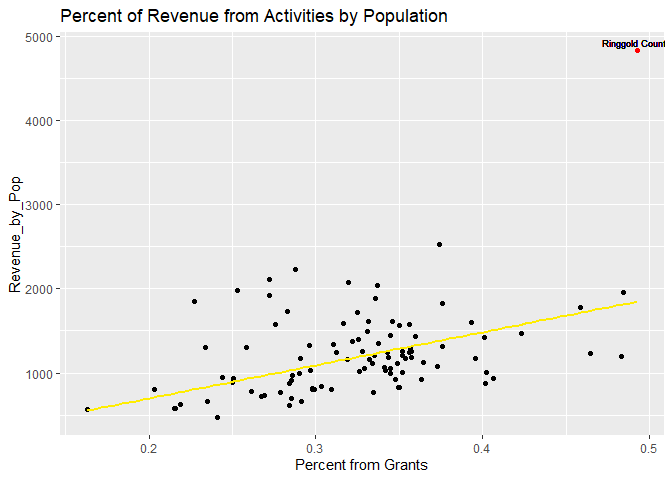
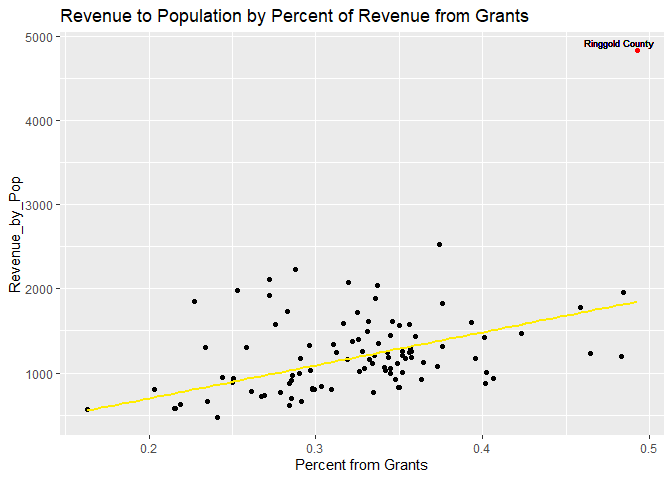
Edit 2

Changed region(s): [[0.0938, 0.0, 0.7812, 0.0625], [0.875, 0.0625, 1.0, 0.125]]

diff --git a/README.md b/README.md
@@ -820,8 +820,8 @@ ggplot(funding_data, aes(x = `Percent from Grants`, y = Revenue_by_Pop)) +
   geom_point() +
   geom_smooth(method = "lm", se = FALSE, col = "#FFED00") +
   geom_point(data = Ringgold, color = "red") +
-  geom_text(data = Ringgold, aes(label = "Ringgold County"), size = 2.5, vjust = -0.5) +
-  labs(title = "Percent of Revenue from Activities by Population")
+  geom_text(data = Ringgold, aes(label = "Ringgold County"), size = 2.5, vjust = -0.5, hjust = 0.75) +
+  labs(title = "Revenue to Population by Percent of Revenue from Grants")
 ```
 
     ## `geom_smooth()` using formula = 'y ~ x'
